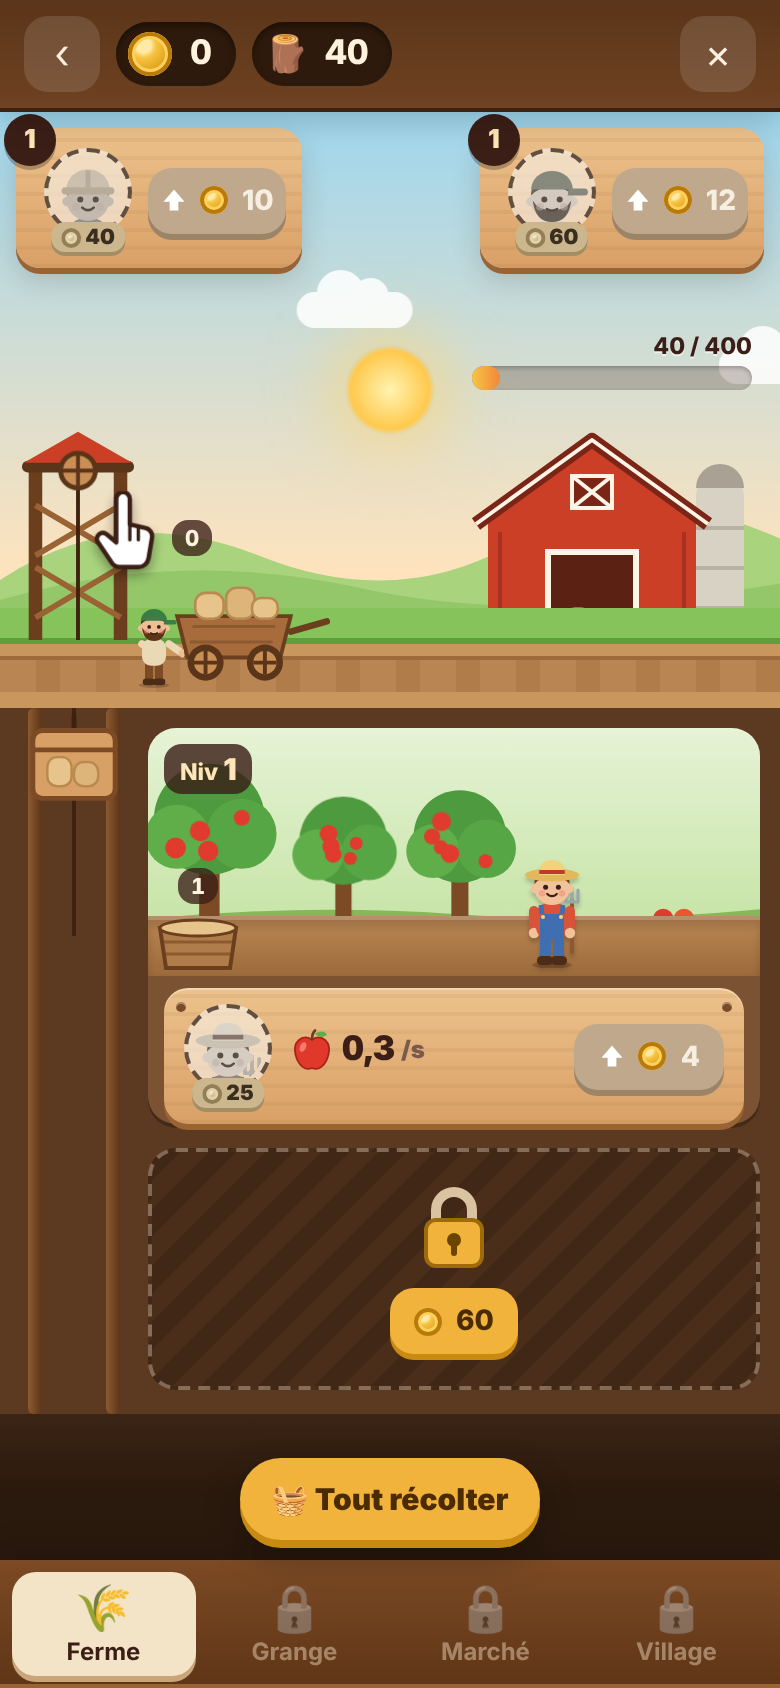
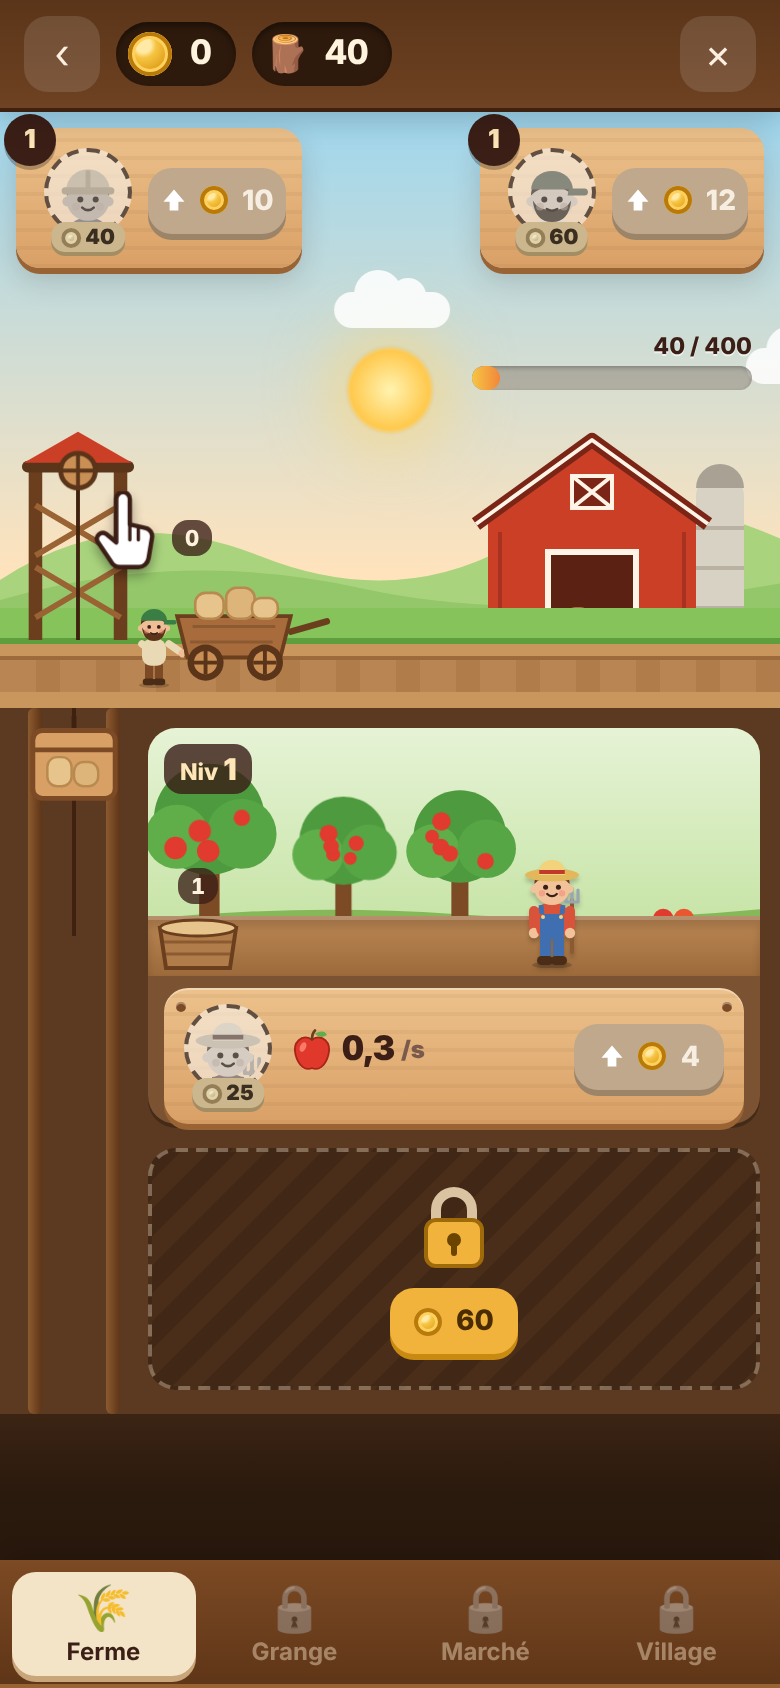
Le Baron v2 : retrait du bouton Tout récolter
Claude-Session: https://claude.ai/code/session_016SqHKL96d9NyDZuzEYmYJY

diff --git a/baron.js b/baron.js
@@ -1440,7 +1440,6 @@ function dockHTML(){
   const f = S.farms[S.cur], all = f.parcels.every(p => p.mgr) && f.elev.mgr && f.cart.mgr;
   const a = P[S.cur].act;
   return `<div class="b2-dock"><div class="b2-col">
-    ${all ? "" : `<button class="b2-act main" data-a="harvest">🧺 Tout récolter</button>`}
     ${BX.unlocked(S, "boost") ? `<button class="b2-act" data-a="boost" aria-label="${esc(a.label)} : production ×2 pendant 1 minute">${a.e} ${esc(a.label)} <span class="t">×2</span></button>` : ""}
   </div></div>`;
 }

diff --git a/.github/baron-src/part-d.js b/.github/baron-src/part-d.js
@@ -324,7 +324,6 @@ function dockHTML(){
   const f = S.farms[S.cur], all = f.parcels.every(p => p.mgr) && f.elev.mgr && f.cart.mgr;
   const a = P[S.cur].act;
   return `<div class="b2-dock"><div class="b2-col">
-    ${all ? "" : `<button class="b2-act main" data-a="harvest">🧺 Tout récolter</button>`}
     ${BX.unlocked(S, "boost") ? `<button class="b2-act" data-a="boost" aria-label="${esc(a.label)} : production ×2 pendant 1 minute">${a.e} ${esc(a.label)} <span class="t">×2</span></button>` : ""}
   </div></div>`;
 }

diff --git a/index.html b/index.html
@@ -1314,7 +1314,7 @@ if (role === "ami" || role === "romane"){
     loadScript("jeux.js?v=9").catch(() => {});
     loadScript("hub.js?v=10").catch(() => {});
     loadScript("colis.js?v=1").catch(() => {});
-    if (role === "ami") loadScript("baron.js?v=16").catch(() => {});
+    if (role === "ami") loadScript("baron.js?v=17").catch(() => {});
   }catch(e){}
 }
 window.addEventListener("pageshow", e => { if (e.persisted) refreshIfStale(); });
